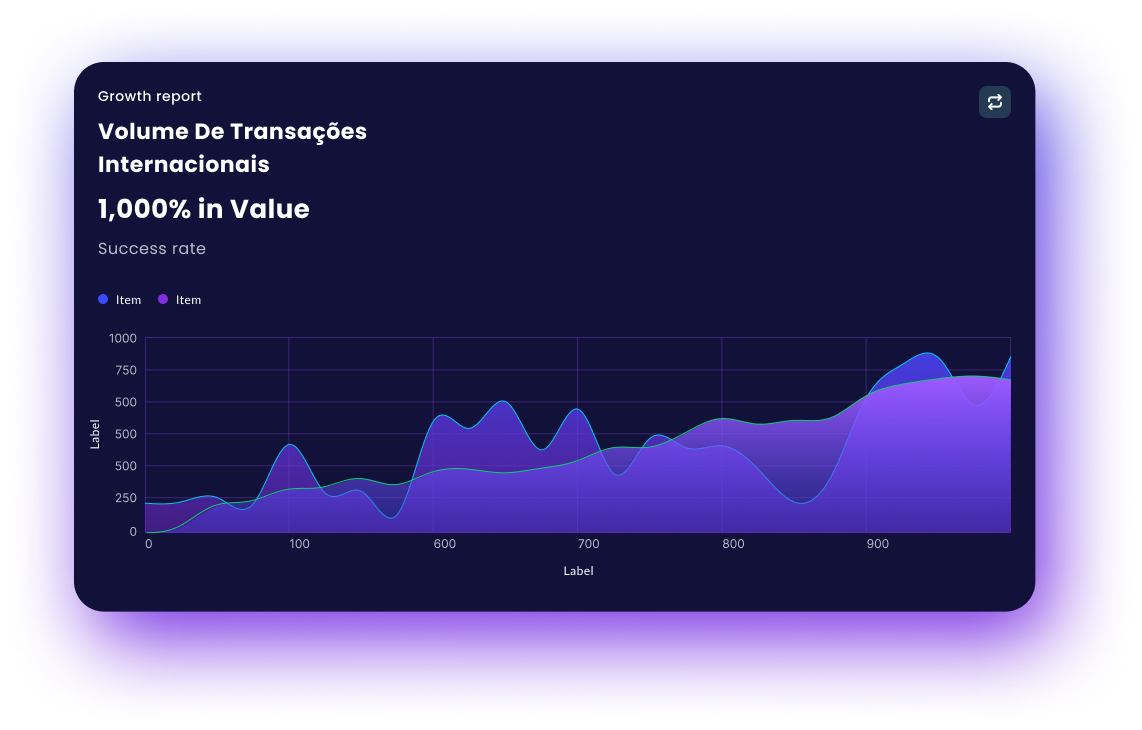
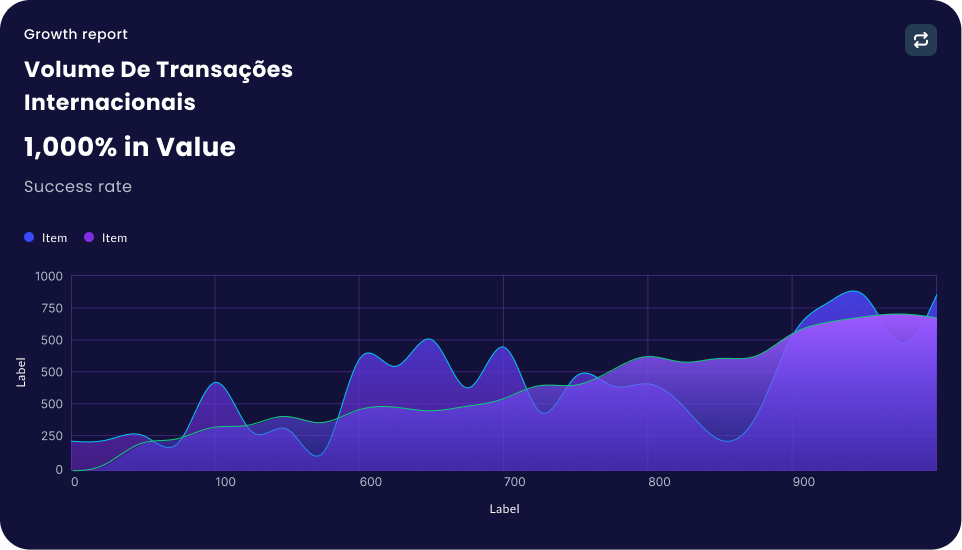
dashboard section

diff --git a/src/Components/Data.jsx b/src/Components/Data.jsx
@@ -1,0 +1,20 @@
+import styles from '../css/Data.module.css'
+import Dashboard from '../assets/dashboard.png'
+
+function Data() {
+    return(
+        <section className={styles.Data}>
+            <div className={styles.Data__description}>
+                <h2 className={styles.Data__description__title}>
+                Nossos Resultados em Transações Internacionais nos Últimos Meses
+                </h2>
+                <p className={styles.Data__description__text}>
+                disponibilizamos esse dashboard para que nossos clientes e investidores possam acompanhar o desempenho da nossa empresa em tempo real.
+                </p>
+            </div>
+            <img src={Dashboard} alt='Gráfico de valores de transações da WorldWallet do último ano' className={styles.Data__dashboard} />
+        </section>
+    )
+}
+
+export default Data;

diff --git a/src/css/Data.module.css b/src/css/Data.module.css
@@ -1,0 +1,36 @@
+.Data {
+    background-image: url('../assets/BackgroundData.png');
+    background-size: cover;
+    height: 100vh;
+    color: var(--texto-branco);
+}
+
+.Data__description {
+    padding: 2em 0em 0em 0em;
+    width: 45%;
+    margin: auto;
+}
+
+.Data__description__title {
+    color: var(--lilas);
+    font-weight: 600;
+    font-size: 40px;
+}
+
+.Data__description__text {
+    margin: auto;
+    padding: 2em 0 1em 0;
+    font-weight: 500;
+    width: 57%;
+}
+
+.Data__dashboard {
+    width: 48%;
+    border: 1px solid var(--lilas);
+    border-radius: 30px;
+    cursor: pointer;
+}
+
+.Data__dashboard:hover {
+    width: 50%;
+}

diff --git a/src/App.js b/src/App.js
@@ -7,6 +7,7 @@ import{BrowserRouter as Router, Routes, Route} from 'react-router-dom';
 /* import components */
 import Home from './Components/Home'
 import About from './Components/About'
+import Data from './Components/Data';
 
 function App() {
   return (
@@ -17,6 +18,7 @@ function App() {
           <Route path='/About' element={<About/>} />
         </Routes>
         <About/>
+        <Data/>
       </Router>
     </div>
   );

diff --git a/src/css/App.css b/src/css/App.css
@@ -2,6 +2,7 @@
 
 @import url('Home.module.css');
 @import url('About.module.css');
+@import url('Data.module.css');
 
 :root {
   --fonte-principal: "Poppins";
